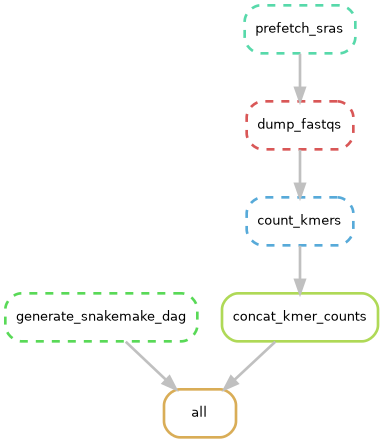
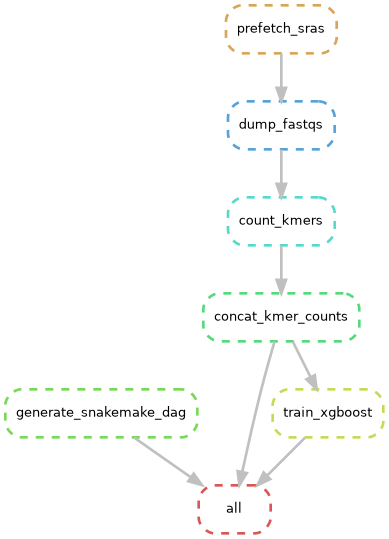
Add simple hyperparameter tuning xgboost example

diff --git a/workflow/scripts/modeling/train_xgboost.py b/workflow/scripts/modeling/train_xgboost.py
@@ -1,0 +1,61 @@
+#!/usr/bin/env python
+# ---------------------------
+# Trains an xgboost from the kmer count table
+# Author: Paul Villanueva (github.com/pommevilla)
+# ---------------------------
+
+if __name__ == "__main__":
+    import pandas as pd
+    import numpy as np
+    from xgboost import XGBClassifier
+    from sklearn.model_selection import train_test_split
+    from sklearn.metrics import accuracy_score
+    from sklearn.model_selection import GridSearchCV
+    from joblib import dump
+
+    # Read in the kmer count table with just the first 100 columns for now
+    kmer_counts = pd.read_csv("data/all_kmer_counts.csv", index_col=0)
+    kmer_counts = kmer_counts.iloc[:, :100]
+
+    # Adding a random column to serve as a prediction target
+    kmer_counts["target"] = np.random.randint(0, 2, size=len(kmer_counts))
+
+    # Create train-test split
+    X_train, X_test, y_train, y_test = train_test_split(
+        kmer_counts.iloc[:, :-1], kmer_counts["target"], test_size=0.2, random_state=489
+    )
+
+    # Hyperparameter grid
+    param_grid = {
+        "max_depth": [3, 7],
+        "learning_rate": [1, 0.01],
+        "subsample": [0.5, 1],
+    }
+
+    bst = XGBClassifier()
+
+    gridsearch = GridSearchCV(
+        bst,
+        param_grid,
+        cv=3,
+        scoring="accuracy",
+    )
+
+    # This is data leakage, but will fix this when we use the full dataset
+    # Also, since this is being performed on such a small subset, the cv split
+    # will sometimes not work since there won't be enough class members to split nicely.
+    # Again, this is something that will be fixed with the full dataset. For now, just run
+    # it a few times until it goes through.
+    # Note - a depecration warning shows up here from XGBoost. This will be fixed
+    # in a future version
+    gridsearch.fit(X_train, y_train)
+
+    # Save gridsearch object
+
+    dump(gridsearch, "results/modeling/xgboost_gridsearch.pkl")
+
+    print(gridsearch.best_params_)
+
+    preds = gridsearch.predict(X_test)
+
+    print(f"Accuracy: {accuracy_score(y_test, preds)}")
